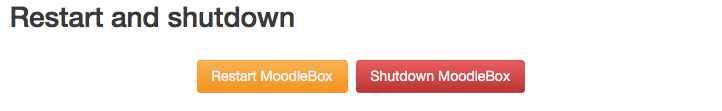
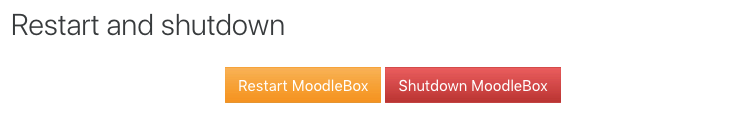
Startup/shutdown screenshots updated. German version added.

Changed region(s): [[0.2742, 0.4865, 0.7618, 0.8378], [0.0, 0.0541, 0.4266, 0.2703]]

diff --git a/content/de/help/startup-shutdown-restart.md b/content/de/help/startup-shutdown-restart.md
@@ -5,6 +5,7 @@ authors:
   - Ralf Krause
 type: kb
 date: 2017-04-20
+lastmod: 2018-07-15
 description: Wenn Sie wissen wollen, wie Sie Ihre MoodleBox richtig starten, stoppen oder neu starten können, finden Sie hier die gewünschten Informationen
 slug: einschalten-ausschalten-neustarten
 weight: 1
@@ -31,7 +32,7 @@ Um das Risiko von Datenbeschädigungen auf der MicroSD-Karte zu minimieren, fahr
 
 Melden Sie sich mit einem Administratorkonto in der Moodle-Plattform der MoodleBox an und rufen Sie die Einstellungsseite [Website-Administration > Server > MoodleBox] [1] auf.
 
-{{< figure link="/img/media/restart-shutdown-en.png" caption="Neustarten und ausschalten" caption-position="bottom" caption-effect="appear" width="722px" >}}
+{{< figure link="/img/media/restart-shutdown-de.png" caption="Neustarten und ausschalten" caption-position="bottom" caption-effect="appear" width="735px" >}}
 
 Im Abschnitt __Neustarten und ausschalten__ zeigt die Benutzeroberfläche zwei Schaltflächen, mit denen Sie die MoodleBox neustarten oder ausschalten können. Tippen Sie auf die Schaltfläche __MoodleBox ausschalten__, warten Sie einige Sekunden und kontrollieren Sie, dass die grüne LED nicht mehr leuchtet. Jetzt können Sie das Netzteil entfernen.
 

diff --git a/content/fr/help/startup-shutdown-restart.md b/content/fr/help/startup-shutdown-restart.md
@@ -4,6 +4,7 @@ authors:
   - Nicolas Martignoni
 type: kb
 date: 2017-04-17
+lastmod: 2018-07-15
 description: Si vous voulez savoir comment démarrer votre MoodleBox, l'arrêter ou la redémarrer correctement, voici les informations souhaitées
 slug: demarrer-arreter-redemarrer
 weight: 1
@@ -30,7 +31,7 @@ L'interface graphique de la MoodleBox permet d'arrêter et de redémarrer la Moo
 
 Pour ce faire, après s'être connecté comme administrateur dans le Moodle de la MoodleBox, on visite [Administration du site > Serveur > MoodleBox][1] dans l'interface d'administration.
 
-{{< figure link="/img/media/restart-shutdown-fr.png" caption="Éteindre et redémarrer" caption-position="bottom" caption-effect="appear" width="722px" >}}
+{{< figure link="/img/media/restart-shutdown-fr.png" caption="Éteindre et redémarrer" caption-position="bottom" caption-effect="appear" width="735px" >}}
 
 Dans la section __Redémarrage et arrêt__, l'interface présente deux boutons, permettant de redémarrer et d'arrêter la MoodleBox. Après avoir cliqué sur le bouton __Arrêter la MoodleBox__, patienter quelques secondes et vérifier que la diode verte ne clignote plus. L'alimentation peut alors être débranchée sans risque.
 

diff --git a/content/en/help/startup-shutdown-restart.md b/content/en/help/startup-shutdown-restart.md
@@ -4,6 +4,7 @@ authors:
   - Nicolas Martignoni
 type: kb
 date: 2017-04-20
+lastmod: 2018-07-15
 description: If you want to know how to start, switch off or restart your MoodleBox correctly, here is the desired information
 slug: startup-shutdown-restart
 weight: 1
@@ -30,7 +31,7 @@ The graphical interface of the MoodleBox allows you to safely stop and restart t
 
 Log in the Moodle instance of the MoodleBox and visit [Site administration > Server > MoodleBox][1] in the administration interface.
 
-{{< figure link="/img/media/restart-shutdown-en.png" caption="Shutdown and restart" caption-position="bottom" caption-effect="appear" width="722px" >}}
+{{< figure link="/img/media/restart-shutdown-en.png" caption="Shutdown and restart" caption-position="bottom" caption-effect="appear" width="735px" >}}
 
 In the section __Restart and shutdown__, the interface displays two buttons allowing to restart and shutdown the MoodleBox. Click on the button __Shutdown MoodleBox__, wait a few seconds and check that the green LED doesn't lights up any more. You may now safely unplug the power supply.
 
